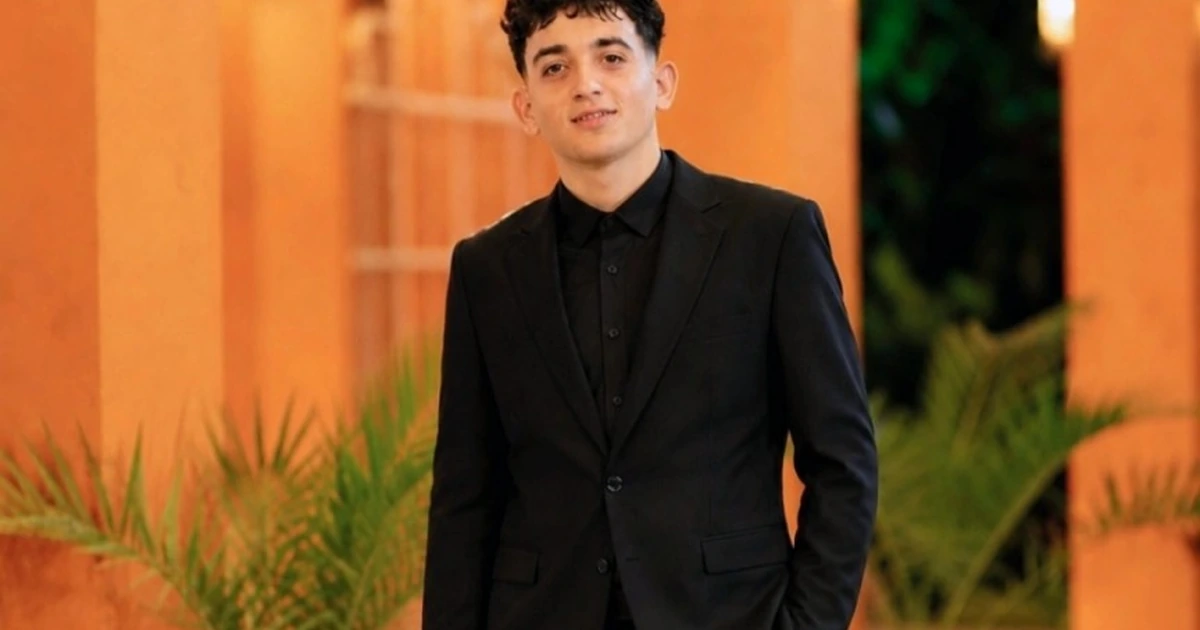
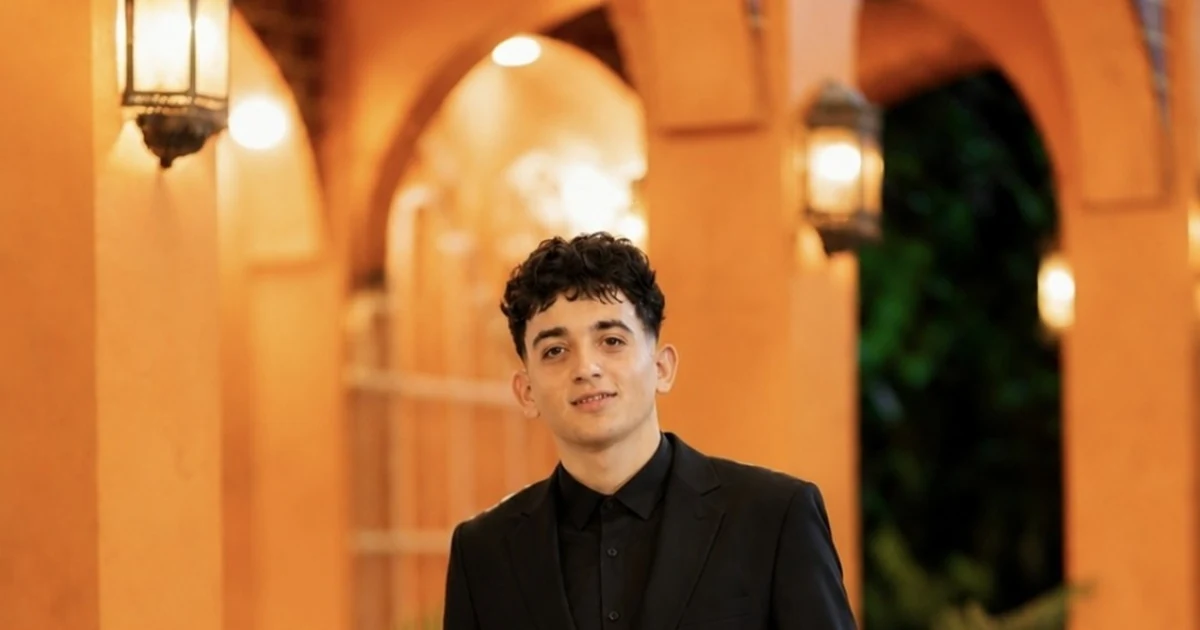
Add files via upload

diff --git a/index.html b/index.html
@@ -13,13 +13,15 @@
 <meta property="og:title" content="Assem Ibrahim Shaban | Front-End Developer">
 <meta property="og:description" content="Front-End Developer — مواقع ويب عصرية، سريعة ومتجاوبة.">
 <meta property="og:url" content="https://assemibrahim679-tech.github.io/">
-<meta property="og:image" content="https://assemibrahim679-tech.github.io/assets/assem-profile.webp">
+<meta property="og:image" content="https://assemibrahim679-tech.github.io/assets/assem-og.webp">
 <meta property="og:image:alt" content="Assem Ibrahim Shaban">
+<meta property="og:image:width" content="1200">
+<meta property="og:image:height" content="630">
 
 <meta name="twitter:card" content="summary_large_image">
 <meta name="twitter:title" content="Assem Ibrahim Shaban | Front-End Developer">
 <meta name="twitter:description" content="Front-End Developer — مواقع ويب عصرية، سريعة ومتجاوبة.">
-<meta name="twitter:image" content="https://assemibrahim679-tech.github.io/assets/assem-profile.webp">
+<meta name="twitter:image" content="https://assemibrahim679-tech.github.io/assets/assem-og.webp">
 
 <meta name="theme-color" content="#080a0f">
 
